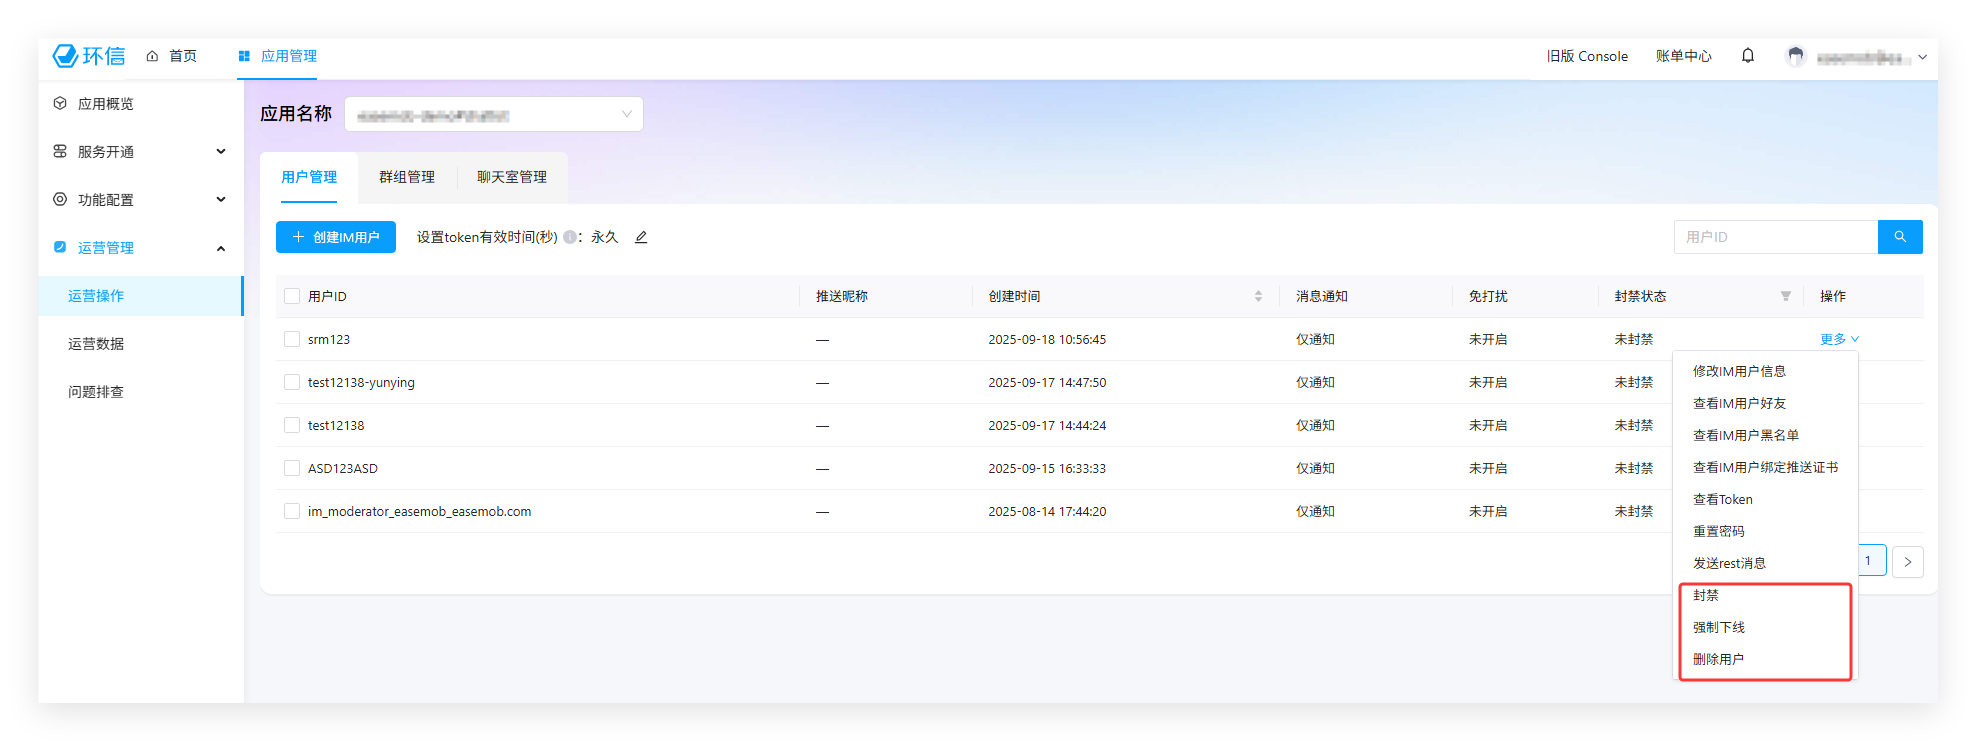
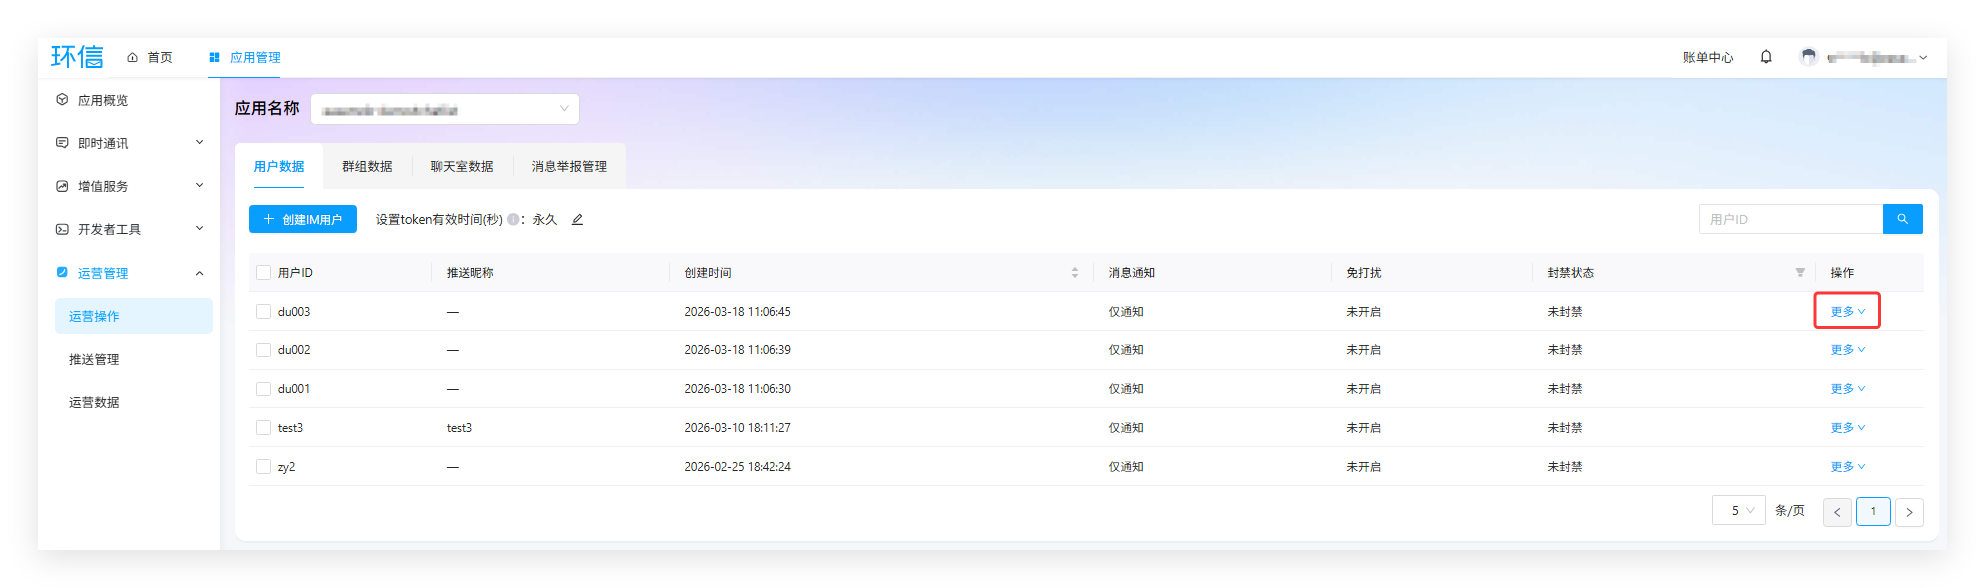
Modify Billing

diff --git a/docs/product/pricing_policy.md b/docs/product/pricing_policy.md
@@ -4,8 +4,8 @@
 
 :::tip
 
-- 自 2026 年 3 月 12 日起，在环信控制台开通付费套餐时，将默认使用新版计费模型。
-- 若在 2026 年 3 月 12 日前开通旧付费套餐，现有应用仍沿用旧模型计费，不受影响。
+- 自 2026 年 3 月 18 日起，在环信控制台开通付费套餐时，将默认使用新版计费模型。
+- 若在 2026 年 3 月 18 日前开通旧付费套餐，现有应用仍沿用旧模型计费，不受影响。
 - 若你与环信销售签约，实际计费信息以合同为准。
 :::
 
@@ -21,7 +21,7 @@
 - **后付费**：按月结算，次月 1 日扣费。适用于套餐包和增值服务的超量使用费用。
 
 即时通讯 IM 的计费组成如下图所示：
-// TODO：重新作图
+
 ![img](/images/product/bill_architecture.png)
 
 ## 基础服务
@@ -151,7 +151,7 @@
 
 当内容审核服务的用量费超过套餐费时，当月免收套餐费，按各审核模型的实际用量费收取。
 
-具体单价请参见 [审核模型单价](/value-added/moderation/moderation_billing_domestic.html#计费规则)。    |
+具体单价请参见 [审核模型单价](/value-added/moderation/moderation_billing_domestic.html#计费规则)。
 
 **用量费说明**：用量费指当月调用所有审核模型产生的费用总和。
 
@@ -172,6 +172,7 @@
 | 扩展功能            | 计费方式 | IM 专业版  | IM 旗舰版  | 说明                                                         |
 | :------------------ | :------- | :--------- | :--------- | :----------------------------------------------------------- |
 | [消息举报](/value-added/moderation/moderation_message_report.html)            | 预付费   | 500 元/月  | 免费       | 支持用户端发起违规消息举报，协助您及时发现并处理违规信息。   |
+| [群组/聊天室人工审核](/value-added/moderation/moderation_manual_review.html) | 预付费   | 联系商务 | 联系商务 | 提供人工审核服务，对群组/聊天室内的消息、属性及成员行为进行实时审核管理。 |
 
 ### 消息翻译
 
@@ -211,4 +212,4 @@
 
 | 计费项   | 价格             | 说明                             |
 | :------- | :--------------- | :------------------------------- |
-| 推送日活 | 750 元/万/月 | 按超出套餐的推送日活用户数计费。 |
+| 推送日活 | 288 元/万/月 | 按超出套餐的推送日活用户数计费。 |

diff --git a/docs/value-added/moderation/moderation_billing_overseas.md b/docs/value-added/moderation/moderation_billing_overseas.md
@@ -20,7 +20,7 @@
 
 | 价格      | 说明                                                         |
 | :-------- | :----------------------------------------------------------- |
-| 1000 元/月 | 每月优先抵扣当月审核模型用量费。具体规则如下： - 若用量费 ≤ 1000 元，当月仅收取套餐费 1000 元。 - 若用量费 > 1000 元，当月免收套餐费，按各审核模型的实际用量费收取。 |
+| 1000 元/月 | 每月优先抵扣当月审核模型用量费。具体规则如下： <br/> - 若用量费 ≤ 1000 元，当月仅收取套餐费 1000 元。 <br/> - 若用量费 > 1000 元，当月免收套餐费，按各审核模型的实际用量费收取。 |
 
 ## 审核模型费用
 

diff --git a/docs/value-added/moderation/moderation_billing_domestic.md b/docs/value-added/moderation/moderation_billing_domestic.md
@@ -20,7 +20,7 @@
 
 | 价格      | 说明                                                         |
 | :-------- | :----------------------------------------------------------- |
-| 500 元/月 | 每月优先抵扣当月审核模型用量费。具体规则如下： - 若用量费 ≤ 500 元，当月仅收取套餐费 500 元。 - 若用量费 > 500 元，当月免收套餐费，按各审核模型的实际用量费收取。 |
+| 500 元/月 | 每月优先抵扣当月审核模型用量费。具体规则如下：<br/> - 若用量费 ≤ 500 元，当月仅收取套餐费 500 元。<br/> - 若用量费 > 500 元，当月免收套餐费，按各审核模型的实际用量费收取。 |
 
 ## 审核模型费用
 

diff --git a/docs/value-added/moderation/moderation_usermgmt.md b/docs/value-added/moderation/moderation_usermgmt.md
@@ -13,6 +13,6 @@
 1. 登录 [环信控制台](https://console.easemob.com/user/login)。
 2. 选择页面上方的 **应用管理**。在弹出的应用列表页面，单击你的应用的 **操作** 栏中的 **管理**。
 3. 在左侧导航栏，选择 **运营管理** > **运营操作**。
-4. 在 **用户管理** 页面，在用户列表中，点击指定用户的 **操作** 栏中的 **更多** ，可以对用户进行封禁、强制下线、删除操作。
+4. 在 **用户数据** 页面，点击指定用户的 **操作** 栏中的 **更多** ，可以对用户进行封禁、强制下线、删除操作。
 
 ![img](/images/console/operation_user_moderation.png)

diff --git a/docs/value-added/push/push_billing_domestic.md b/docs/value-added/push/push_billing_domestic.md
@@ -27,7 +27,7 @@
 
 | 计费项   | 价格             | 说明                             |
 | :------- | :--------------- | :------------------------------- |
-| 推送日活 | 200 元/万/月 | 按超出套餐的推送日活用户数计费。 |
+| 推送日活 | 288 元/万/月 | 按超出套餐的推送日活用户数计费。 |
 
 ## 功能详情
 
